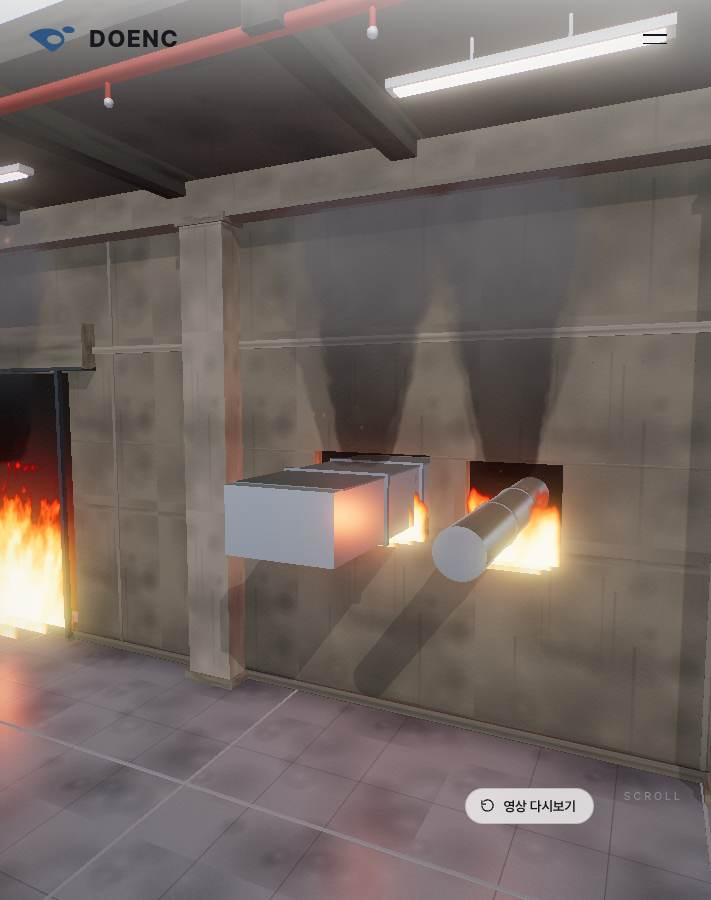
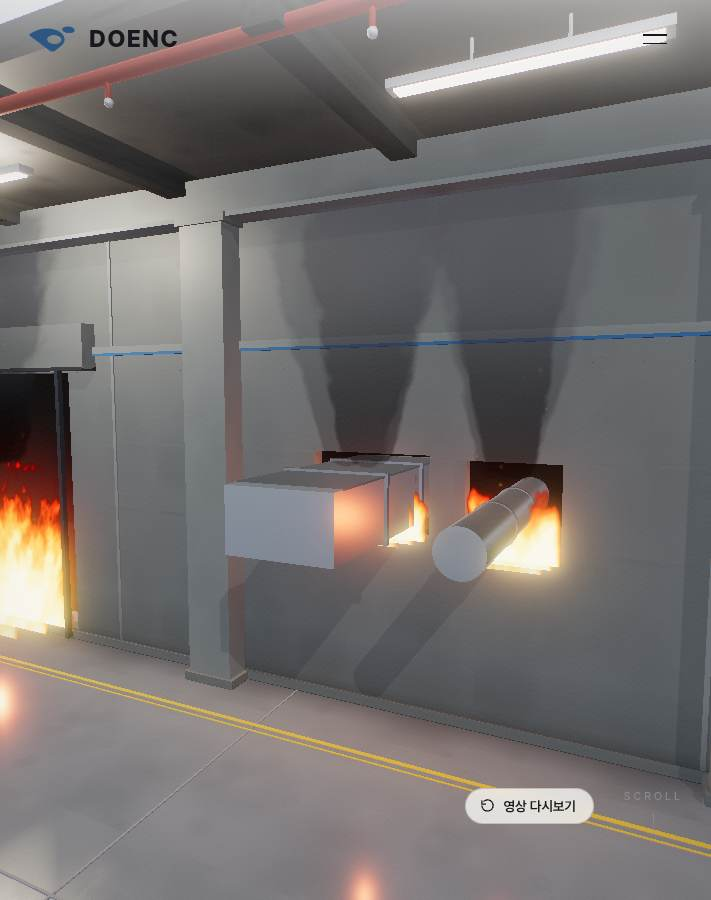
그래픽 2단계 — 폐건물처럼 보이던 원인 제거, 도장 마감된 완공 시설로
'폐건물 같다'의 원인은 렌더링이 아니라 **표면과 빛**이었다.

① 벽에 세로 물자국 7줄과 큰 얼룩 34개가 실제로 그려져 있었다.
   흘러내린 자국은 방치된 건물의 신호다. 아무리 렌더링을 올려도 이게 있으면
   버려진 곳으로 읽힌다. 벽을 도장 마감으로 바꾸고 결은 롤러 자국 수준만 남겼다.
   색도 갈회색(때 낀 콘크리트) → 중성 회색(관리되는 시설)으로 옮겼다.
   ⚠ 명도는 크게 못 올린다 — 하얀 내화보드가 벽에 묻히면 주역이 사라진다.

② 천장 등기구가 '빛나는 것처럼 칠해진 판'일 뿐 방을 전혀 밝히지 않았다.
   실내인데 흐린 날 야외처럼 빛이 평평하게 깔려 공간이 죽어 있었다.
   실제 광원을 달아 바닥·벽에 빛웅덩이를 만든다. 그림자는 끄고(키라이트가 담당)
   저사양에서는 개수를 절반으로 — 광원 수는 픽셀 셰이더 비용에 그대로 붙는다.

③ 바닥을 에폭시 코팅으로. 구워 넣던 굵은 타일 격자를 빼고 거칠기를 낮춰
   구운 환경맵이 비치게 했다. 신축줄눈 간격은 넓혀 격자무늬로 안 보이게.

④ 색면을 둘 넣었다 — 황색 바닥 안전선과 얇은 브랜드 파랑 유도 라인.
   회색 일변도의 화면에 도색된 라인이 들어가면 '설계된 공간'으로 읽힌다.

실내 광원이 새로 들어온 만큼 노출(0.82→0.68)과 기존 방향광을 함께 내려
벽이 하얗게 날아가지 않게 다시 맞췄다. 첫 프레임이 바뀌어 포스터 4장도 재생성.

모서리 모따기와 인물 형상은 아직 남아 있다.

diff --git a/company-site/assets/js/hero3d.js b/company-site/assets/js/hero3d.js
@@ -38,7 +38,7 @@ export async function initHero3D(canvas, host) {
   //    여기서 톤매핑을 켜면 불이 버퍼에 담기기 전에 이미 눌려서 아무리 밝혀도 베이지색이 된다.
   renderer.toneMapping = THREE.NoToneMapping;
   renderer.outputColorSpace = THREE.LinearSRGBColorSpace;
-  const EXPOSURE = 0.82;   // 노출 — 벽이 날아가면 하얀 내화보드도 크림색 셔터 원단도 안 보인다
+  const EXPOSURE = 0.68;   // 노출 — 벽이 날아가면 하얀 내화보드도 크림색 셔터 원단도 안 보인다
 
   // 저사양 판별 — 블룸 해상도와 MSAA 를 여기서 한 번에 낮춘다(재생이 20fps 밑으로 떨어지면 문구가 먼저 튀어나온다)
   const LOWEND = (navigator.hardwareConcurrency || 4) <= 4 ||
@@ -341,11 +341,20 @@ export async function initHero3D(canvas, host) {
     tex.normalTwin = nrm;
     return tex;
   }
-  // ⚠ 얼룩·흘러내린 자국을 세게 주면 '폐건물'이 된다. 관리되는 시설이어야 하므로
-  //    결은 남기되 대비를 눌러서, 가까이서만 보이고 멀리서는 고운 회색으로 읽히게 한다.
-  const texConcrete = makeSurfaceTex(512, { base: "#c6c3bd", roughBase: "#8d8d8d", dark: "rgba(64,62,58,.12)", light: "rgba(232,229,223,.13)", blobs: 34, streaks: 7, grain: 13 });
-  const texFloor    = makeSurfaceTex(512, { base: "#cdced2", roughBase: "#9c9c9c", dark: "rgba(60,62,68,.13)", light: "rgba(238,240,244,.17)", blobs: 28, grain: 12, grid: 3, gridColor: "rgba(74,76,82,.42)" });
-  const texCeil     = makeSurfaceTex(256, { base: "#afaba6", roughBase: "#b4b4b4", dark: "rgba(28,26,24,.22)", light: "rgba(150,146,140,.14)", blobs: 20, grain: 12 });
+  // ⚠⚠ 여기가 '폐건물로 보인다'의 진짜 원인이었다.
+  //   세로로 흘러내린 물자국(streaks)과 큰 얼룩(blobs)은 **방치된 건물의 신호**다.
+  //   아무리 렌더링을 올려도 이게 있으면 버려진 곳으로 읽힌다.
+  //   → 벽은 도장 마감으로 바꾼다. 결은 롤러 자국 수준으로만 남기고 얼룩·물자국은 없앤다.
+  //   색도 갈회색(때 낀 콘크리트) → 중성 회색(관리되는 시설)으로 옮긴다.
+  const texPaint = makeSurfaceTex(512, {
+    base: "#d9d9d7", roughBase: "#7d7d7d",
+    dark: "rgba(150,150,148,.05)", light: "rgba(255,255,255,.06)",   // 대비를 거의 없앤다
+    blobs: 9, grain: 4, normalStrength: 0.55,                        // 롤러 자국 정도의 아주 얕은 굴곡
+  });
+  // 바닥은 에폭시 코팅 — 구워 넣던 굵은 타일 격자를 빼고 매끈하게. 반사는 재질 쪽에서 준다.
+  const texFloor    = makeSurfaceTex(512, { base: "#dbdde0", roughBase: "#6a6a6a", dark: "rgba(96,100,106,.06)", light: "rgba(255,255,255,.08)", blobs: 12, grain: 5, normalStrength: 0.35 });
+  // 천장은 노출 콘크리트로 남긴다 — 벽이 밝아진 만큼 위가 눌려야 공간이 안 뜬다(실제 설비실도 이렇다)
+  const texCeil     = makeSurfaceTex(256, { base: "#afaba6", roughBase: "#b4b4b4", dark: "rgba(28,26,24,.18)", light: "rgba(150,146,140,.12)", blobs: 16, grain: 9 });
 
   // 같은 결 이미지를 쓰되 **면의 월드 좌표에 맞춰** 반복·오프셋을 정한다.
   //  · 크기에 비례한 repeat  → 큰 벽과 작은 조각의 결 크기가 같아진다
@@ -374,16 +383,20 @@ export async function initHero3D(canvas, host) {
 
   // ---- 재질 ----
   // 벽체 = 노출 콘크리트 톤의 건축 마감. 하얀 내화보드가 확실히 대비되도록 중간 명도의 웜그레이
-  const matWall     = new THREE.MeshStandardMaterial({ color: 0x8b8479, roughness: 0.94, envMapIntensity: 0.5, map: texConcrete, roughnessMap: texConcrete.dataTwin, normalMap: texConcrete.normalTwin, normalScale: new THREE.Vector2(0.85, 0.85) });
-  const matWallSide = new THREE.MeshStandardMaterial({ color: 0x7f7971, roughness: 0.96, envMapIntensity: 0.5, map: texConcrete, roughnessMap: texConcrete.dataTwin, normalMap: texConcrete.normalTwin, normalScale: new THREE.Vector2(0.8, 0.8) });
-  const matCol      = new THREE.MeshStandardMaterial({ color: 0xa69f96, roughness: 0.9,  envMapIntensity: 0.5, map: texConcrete, roughnessMap: texConcrete.dataTwin, normalMap: texConcrete.normalTwin, normalScale: new THREE.Vector2(0.9, 0.9) });  // 기둥(빛 받는 면)
-  const matBeam     = new THREE.MeshStandardMaterial({ color: 0x8b857c, roughness: 0.92, envMapIntensity: 0.5, map: texConcrete, roughnessMap: texConcrete.dataTwin, normalMap: texConcrete.normalTwin, normalScale: new THREE.Vector2(0.85, 0.85) }); // 보·인방
-  const matReveal   = new THREE.MeshStandardMaterial({ color: 0x6b6660, roughness: 0.97 }); // 패널 줄눈
+  // 도장 마감 — 무광에 가깝지만 완전 무광은 아니다(0.9 는 종이가 된다). 살짝 남긴 반사가 '칠한 면'을 만든다.
+  // ⚠ 명도는 크게 못 올린다. 하얀 내화보드가 벽에 묻히면 주역이 사라진다 → 중간 회색을 유지하되 색상만 중성으로.
+  const matWall     = new THREE.MeshStandardMaterial({ color: 0x767c80, roughness: 0.82, envMapIntensity: 0.55, map: texPaint, roughnessMap: texPaint.dataTwin, normalMap: texPaint.normalTwin, normalScale: new THREE.Vector2(0.35, 0.35) });
+  const matWallSide = new THREE.MeshStandardMaterial({ color: 0x6e7478, roughness: 0.84, envMapIntensity: 0.55, map: texPaint, roughnessMap: texPaint.dataTwin, normalMap: texPaint.normalTwin, normalScale: new THREE.Vector2(0.35, 0.35) });
+  const matCol      = new THREE.MeshStandardMaterial({ color: 0x838a8e, roughness: 0.8,  envMapIntensity: 0.6,  map: texPaint, roughnessMap: texPaint.dataTwin, normalMap: texPaint.normalTwin, normalScale: new THREE.Vector2(0.35, 0.35) });  // 기둥(빛 받는 면)
+  const matBeam     = new THREE.MeshStandardMaterial({ color: 0x72787c, roughness: 0.82, envMapIntensity: 0.55, map: texPaint, roughnessMap: texPaint.dataTwin, normalMap: texPaint.normalTwin, normalScale: new THREE.Vector2(0.35, 0.35) }); // 보·인방
+  const matReveal   = new THREE.MeshStandardMaterial({ color: 0x71777b, roughness: 0.88 }); // 패널 줄눈
+  const matAccent   = new THREE.MeshStandardMaterial({ color: 0x2e5f8f, roughness: 0.68, envMapIntensity: 0.4 });  // 브랜드 파랑 — 유도 라인
+  const matSafety   = new THREE.MeshStandardMaterial({ color: 0xc9a327, roughness: 0.66, envMapIntensity: 0.35 });  // 바닥 안전선
   // 바닥은 도장 콘크리트 — 살짝 반사가 있어야 실내로 읽힌다(완전 무광이면 종이가 된다)
-  const matFloor    = new THREE.MeshStandardMaterial({ color: 0x9a9ba1, roughness: 0.52, metalness: 0.04, envMapIntensity: 0.55, map: texFloor, roughnessMap: texFloor.dataTwin, normalMap: texFloor.normalTwin, normalScale: new THREE.Vector2(0.5, 0.5) });
-  const matFJoint   = new THREE.MeshStandardMaterial({ color: 0x7f8086, roughness: 0.95 });
-  const matCeil     = new THREE.MeshStandardMaterial({ color: 0x676460, roughness: 1.0, envMapIntensity: 0.4, map: texCeil, roughnessMap: texCeil.dataTwin });  // 완전 검정은 멀리서 화면을 눌러버린다
-  const matCeilBeam = new THREE.MeshStandardMaterial({ color: 0x55524e, roughness: 1.0, map: texCeil });
+  const matFloor    = new THREE.MeshStandardMaterial({ color: 0x9298a0, roughness: 0.3, metalness: 0.05, envMapIntensity: 1.05, map: texFloor, roughnessMap: texFloor.dataTwin, normalMap: texFloor.normalTwin, normalScale: new THREE.Vector2(0.22, 0.22) });
+  const matFJoint   = new THREE.MeshStandardMaterial({ color: 0x7c828a, roughness: 0.6 });
+  const matCeil     = new THREE.MeshStandardMaterial({ color: 0x5e6164, roughness: 1.0, envMapIntensity: 0.35, map: texCeil, roughnessMap: texCeil.dataTwin });  // 완전 검정은 멀리서 화면을 눌러버린다
+  const matCeilBeam = new THREE.MeshStandardMaterial({ color: 0x4d5053, roughness: 1.0, envMapIntensity: 0.3, map: texCeil });
   const matDark     = new THREE.MeshStandardMaterial({ color: 0x161210, roughness: 1.0 });
   // 반짝이는 은빛 스테인리스 배관 / 아연도 사각덕트
   const matPipe = new THREE.MeshStandardMaterial({ color: 0xccd3dc, roughness: 0.16, metalness: 1.0, envMapIntensity: 1.05 });
@@ -730,6 +743,8 @@ export async function initHero3D(canvas, host) {
   // =====================================================================
   //  벽체 — 개구부 세 곳을 남기고 슬래브로 채운 뒤, 기둥·보·줄눈으로 건축을 만든다
   // =====================================================================
+  const lampSpots = [];   // 등기구 x 좌표 — 실제 광원은 조명 절 에서 단다(선언 순서 때문에 분리)
+  const LAMP_LIGHT_Y = 10.9, LAMP_LIGHT_Z = WALL_Z + 5.6;
   (function buildWall() {
     const rects = OPENINGS.map((o) => ({ x0: o.x - o.hw, x1: o.x + o.hw, y0: o.y - o.hh, y1: o.y + o.hh }));
     const TILE = 6;   // 콘크리트 결 한 장이 덮는 크기(m)
@@ -773,15 +788,23 @@ export async function initHero3D(canvas, host) {
       if (jx > BIG.x - BIG.hw - 2.2 && jx < BIG.x + BIG.hw + 2.2) continue; // 셔터 소핏 자리
       box(0.13, colTop - WY0, 0.05, matReveal, jx, (WY0 + colTop) / 2, WALL_FRONT + 0.03, scene, false, false);
     }
+    // 허리 라인 — 도장 구획선. 위는 밝은 회색, 아래는 한 톤 어둡게 칠한 마감을 암시한다.
     box(WX1 - WX0, 0.26, 0.12, matCol, (WX0 + WX1) / 2, 6.6, WALL_FRONT + 0.07, scene, false, false);
-    // 걸레받이
+    // 브랜드 파랑 유도 라인 — 관리되는 시설에는 반드시 도색된 라인이 있다. 색면이 하나 들어가면
+    // 회색 일변도의 화면이 '설계된 공간'으로 읽힌다. 얇게 한 줄만 — 굵으면 촌스러워진다.
+    box(WX1 - WX0, 0.09, 0.13, matAccent, (WX0 + WX1) / 2, 6.44, WALL_FRONT + 0.075, scene, false, false);
+    // 걸레받이 — 도장면 아래를 받는 짙은 띠
     box(WX1 - WX0, 0.34, 0.1, matWallSide, (WX0 + WX1) / 2, WY0 + 0.17, WALL_FRONT + 0.06, scene, false, true);
 
     // ---- 실내 바닥 ---- (줄눈은 결 이미지에 구워져 있고, 굵은 신축줄눈만 실물로 얹는다)
     const FW = WX1 - WX0, FD = 52;
     box(FW, 0.5, FD, scaled(matFloor, FW, FD, 6), (WX0 + WX1) / 2, WY0 - 0.25, WALL_Z + 24, scene, false, true);
-    for (let fx = WX0 + 12; fx < WX1; fx += 12) box(0.09, 0.03, 48, matFJoint, fx, WY0 + 0.012, WALL_Z + 22, scene, false, false);
-    for (let fz = 6; fz < 46; fz += 12)         box(FW, 0.03, 0.09, matFJoint, (WX0 + WX1) / 2, WY0 + 0.012, WALL_Z + fz, scene, false, false);
+    // 신축줄눈만 남긴다 — 간격을 넓혀 격자무늬처럼 안 보이게(촘촘하면 타일 바닥이 된다)
+    for (let fx = WX0 + 16; fx < WX1 - 4; fx += 16) box(0.06, 0.03, 48, matFJoint, fx, WY0 + 0.012, WALL_Z + 22, scene, false, false);
+    for (let fz = 10; fz < 46; fz += 16)            box(FW, 0.03, 0.06, matFJoint, (WX0 + WX1) / 2, WY0 + 0.012, WALL_Z + fz, scene, false, false);
+    // 황색 안전선 — 벽 앞 통행 금지대. 현장 사진에서 '관리되는 시설'을 가장 빨리 알려주는 신호다.
+    box(FW, 0.02, 0.14, matSafety, (WX0 + WX1) / 2, WY0 + 0.02, WALL_FRONT + 2.6, scene, false, false);
+    box(FW, 0.02, 0.06, matSafety, (WX0 + WX1) / 2, WY0 + 0.02, WALL_FRONT + 2.9, scene, false, false);
 
     // ---- 천장 슬래브 + 보 ---- (큰 검은 판은 멀리서 화면을 눌러버린다 → 콘크리트 톤으로)
     box(FW, 0.8, 8.0, scaled(matCeil, FW, 8.0, 6), (WX0 + WX1) / 2, 12.6, WALL_Z + 4.2, scene, false, false);
@@ -831,6 +854,10 @@ export async function initHero3D(canvas, host) {
       });
       box(5.2, 0.18, 0.46, matLampBody, lx, LAMP_Y, LAMP_Z, scene, false, false);
       box(4.9, 0.06, 0.34, matLamp, lx, LAMP_Y - 0.11, LAMP_Z, scene, false, false);  // 아래를 향한 발광면
+      // ⚠ 여태 등기구는 '빛나는 것처럼 칠해진 판'일 뿐 방을 전혀 밝히지 않았다.
+      //    실내인데 흐린 날 야외처럼 빛이 평평하게 깔린 게 폐건물 느낌의 절반이었다.
+      //    실제 광원을 달아 바닥·벽에 빛웅덩이를 만든다. 그림자는 끄고(키라이트가 담당) 수만 최소로.
+      lampSpots.push(lx);
     }
     // 스프링클러 주배관(적색) + 헤드
     const matFP = new THREE.MeshStandardMaterial({ color: 0x9c3b2c, roughness: 0.45, metalness: 0.5, envMapIntensity: 0.9 });
@@ -1100,13 +1127,26 @@ export async function initHero3D(canvas, host) {
   // 앰비언트(hemi)를 낮추고 방향광(key)을 올리면 면마다 명암이 갈려 형태가 또렷해진다.
   // 반대로 hemi 가 세면 전체가 균일하게 떠서 '뿌연' 그림이 된다.
   scene.add(new THREE.HemisphereLight(0xeef1f6, 0x6e6e75, 0.17));
-  const key = new THREE.DirectionalLight(0xfff3e6, 1.62); key.castShadow = true;
+  const key = new THREE.DirectionalLight(0xfff3e6, 1.05); key.castShadow = true;
   key.shadow.mapSize.set(2048, 2048); key.shadow.camera.near = 1; key.shadow.camera.far = 70;
   key.shadow.camera.left = -16; key.shadow.camera.right = 16; key.shadow.camera.top = 13; key.shadow.camera.bottom = -11; key.shadow.bias = -0.0012;
   scene.add(key); scene.add(key.target); // 그림자 카메라가 시선을 따라다니게(넓은 씬에서 해상도 확보)
-  const fill = new THREE.DirectionalLight(0xdfe8ff, 0.2); fill.position.set(-6, 4, 6); scene.add(fill);
+  const fill = new THREE.DirectionalLight(0xdfe8ff, 0.16); fill.position.set(-6, 4, 6); scene.add(fill);
   // 카메라 쪽 스펙큘러 — 은빛 배관·덕트 위로 길게 흐르는 하이라이트를 만든다
-  const spec = new THREE.DirectionalLight(0xffffff, 1.0); spec.position.set(7, 6, 14); scene.add(spec);
+  const spec = new THREE.DirectionalLight(0xffffff, 0.7); spec.position.set(7, 6, 14); scene.add(spec);
+
+  // 천장 등기구가 **실제로 방을 밝히게** 한다.
+  //  · 거리 16m 를 던져야 하므로 세기가 크다(three 는 물리 단위 — 조도는 거리 제곱으로 준다)
+  //  · 그림자는 끈다. 광원마다 그림자맵을 뜨면 저사양에서 바로 무너진다.
+  //  · 저사양에서는 개수를 줄인다 — 광원 수는 픽셀 셰이더 비용에 그대로 붙는다.
+  (function ceilingLights() {
+    const step = LOWEND ? 2 : 1;
+    for (let i = 0; i < lampSpots.length; i += step) {
+      const L = new THREE.PointLight(0xffeed6, LOWEND ? 260 : 145, 46, 2);
+      L.position.set(lampSpots[i], LAMP_LIGHT_Y, LAMP_LIGHT_Z);
+      scene.add(L);
+    }
+  })();
 
   // =====================================================================
   //  환경맵을 **실제 이 방**으로 교체한다.

diff --git a/company-site/index.html b/company-site/index.html
@@ -21,15 +21,15 @@
 
     <link rel="icon" type="image/png" href="assets/images/doenc_mark.png">
     <!-- 히어로 첫 화면 — 화면 비율 단계별로 한 장만 받는다 (경계는 style.css / hero3d.js resize() 와 동일) -->
-    <link rel="preload" as="image" href="assets/images/hero-poster-w.jpg?v=20260803e" media="(min-aspect-ratio: 8/5)" fetchpriority="high">
-    <link rel="preload" as="image" href="assets/images/hero-poster-m.jpg?v=20260803e" media="(min-aspect-ratio: 6/5) and (max-aspect-ratio: 8/5)" fetchpriority="high">
-    <link rel="preload" as="image" href="assets/images/hero-poster-n.jpg?v=20260803e" media="(min-aspect-ratio: 4/5) and (max-aspect-ratio: 6/5)" fetchpriority="high">
-    <link rel="preload" as="image" href="assets/images/hero-poster-p.jpg?v=20260803e" media="(max-aspect-ratio: 4/5)" fetchpriority="high">
+    <link rel="preload" as="image" href="assets/images/hero-poster-w.jpg?v=20260803f" media="(min-aspect-ratio: 8/5)" fetchpriority="high">
+    <link rel="preload" as="image" href="assets/images/hero-poster-m.jpg?v=20260803f" media="(min-aspect-ratio: 6/5) and (max-aspect-ratio: 8/5)" fetchpriority="high">
+    <link rel="preload" as="image" href="assets/images/hero-poster-n.jpg?v=20260803f" media="(min-aspect-ratio: 4/5) and (max-aspect-ratio: 6/5)" fetchpriority="high">
+    <link rel="preload" as="image" href="assets/images/hero-poster-p.jpg?v=20260803f" media="(max-aspect-ratio: 4/5)" fetchpriority="high">
 
     <!-- 3D 모듈을 미리 받아둔다. 없으면 main.js → hero3d.js → three.module → three.core 로
          **네 번 순차 왕복**하느라 750KB 를 다 받을 때까지 포스터가 계속 떠 있는다.
          ⚠ href 는 실제 import 주소와 **글자 그대로 같아야** 캐시가 재사용된다(쿼리 포함). -->
-    <link rel="modulepreload" href="assets/js/hero3d.js?v=20260803e">
+    <link rel="modulepreload" href="assets/js/hero3d.js?v=20260803f">
     <link rel="modulepreload" href="assets/js/vendor/three.module.min.js">
     <link rel="modulepreload" href="assets/js/vendor/three.core.min.js">
 
@@ -76,7 +76,7 @@
     <link rel="stylesheet" href="https://cdn.jsdelivr.net/gh/orioncactus/pretendard@v1.3.9/dist/web/variable/pretendardvariable-dynamic-subset.min.css"
           media="print" onload="this.media='all'">
     <noscript><link rel="stylesheet" href="https://cdn.jsdelivr.net/gh/orioncactus/pretendard@v1.3.9/dist/web/variable/pretendardvariable-dynamic-subset.min.css"></noscript>
-    <link rel="stylesheet" href="assets/css/style.css?v=20260803e">
+    <link rel="stylesheet" href="assets/css/style.css?v=20260803f">
     <noscript><style>.reveal{opacity:1!important;transform:none!important}</style></noscript>
 </head>
 <body id="top">
@@ -178,7 +178,7 @@
         <section class="hero" id="home">
             <!-- ▼ 히어로 미디어 슬롯
                  실사 영상/사진을 받으면 아래 주석 한 줄만 살리면 도면 그래픽이 자동 교체됩니다.
-                 <video autoplay muted loop playsinline poster="assets/images/hero-poster-w.jpg?v=20260803e">
+                 <video autoplay muted loop playsinline poster="assets/images/hero-poster-w.jpg?v=20260803f">
                      <source src="assets/images/hero.mp4" type="video/mp4"></video>
                  또는  <img src="assets/images/hero.jpg" alt="">                        -->
             <div class="hero-media" id="heroMedia" aria-hidden="true">
@@ -917,14 +917,14 @@
         <a class="to-top" href="#top" aria-label="맨 위로">↑</a>
     </footer>
 
-    <script src="assets/js/main.js?v=20260803e"></script>
+    <script src="assets/js/main.js?v=20260803f"></script>
     <script type="module">
       // 히어로 3D는 첫 화면이 그려진 뒤에 불러온다 (본문 표시를 늦추지 않도록)
       var canvas = document.getElementById("hero3d");
       var host = document.getElementById("heroMedia");
       var gl = canvas && canvas.getContext && (canvas.getContext("webgl2") || canvas.getContext("webgl"));
       if (gl) {
-        import("./assets/js/hero3d.js?v=20260803e")
+        import("./assets/js/hero3d.js?v=20260803f")
           .then(function (m) { return m.initHero3D(canvas, host); })
           // 1회 재생이라 replay()로 다시 볼 수 있게 API를 전역에 둔다.
           // ⚠ window.hero3d 는 <canvas id="hero3d"> 와 이름이 겹치므로 heroFilm 을 정식 이름으로 쓴다.

diff --git a/company-site/assets/css/style.css b/company-site/assets/css/style.css
@@ -258,11 +258,11 @@ svg { display: block; width: 100%; height: auto; }
 .hero-media {
     position: absolute; inset: 0; overflow: hidden;
     background: #83786f center center / auto 100% no-repeat;
-    background-image: url("../images/hero-poster-p.jpg?v=20260803e");           /*        a < 0.8 */
+    background-image: url("../images/hero-poster-p.jpg?v=20260803f");           /*        a < 0.8 */
 }
-@media (min-aspect-ratio: 4/5) { .hero-media { background-image: url("../images/hero-poster-n.jpg?v=20260803e"); } }  /* 0.8 <= a < 1.2 */
-@media (min-aspect-ratio: 6/5) { .hero-media { background-image: url("../images/hero-poster-m.jpg?v=20260803e"); } }  /* 1.2 <= a < 1.6 */
-@media (min-aspect-ratio: 8/5) { .hero-media { background-image: url("../images/hero-poster-w.jpg?v=20260803e"); } }  /* 1.6 <= a       */
+@media (min-aspect-ratio: 4/5) { .hero-media { background-image: url("../images/hero-poster-n.jpg?v=20260803f"); } }  /* 0.8 <= a < 1.2 */
+@media (min-aspect-ratio: 6/5) { .hero-media { background-image: url("../images/hero-poster-m.jpg?v=20260803f"); } }  /* 1.2 <= a < 1.6 */
+@media (min-aspect-ratio: 8/5) { .hero-media { background-image: url("../images/hero-poster-w.jpg?v=20260803f"); } }  /* 1.6 <= a       */
 
 /* 사실적 3D 캔버스 — 준비되면 폴백 위로 나타난다.
    포스터가 곧 같은 프레임이므로 길게 겹칠 이유가 없다 — 짧게 넘겨야 갈아타는 게 안 보인다 */

diff --git a/company-site/archive.html b/company-site/archive.html
@@ -37,7 +37,7 @@
     <link rel="stylesheet" href="https://cdn.jsdelivr.net/gh/orioncactus/pretendard@v1.3.9/dist/web/variable/pretendardvariable-dynamic-subset.min.css"
           media="print" onload="this.media='all'">
     <noscript><link rel="stylesheet" href="https://cdn.jsdelivr.net/gh/orioncactus/pretendard@v1.3.9/dist/web/variable/pretendardvariable-dynamic-subset.min.css"></noscript>
-    <link rel="stylesheet" href="assets/css/style.css?v=20260803e">
+    <link rel="stylesheet" href="assets/css/style.css?v=20260803f">
     <noscript><style>.reveal{opacity:1!important;transform:none!important}</style></noscript>
 </head>
 <body id="top">
@@ -198,8 +198,8 @@
         </div>
     </div>
 
-    <script src="assets/js/main.js?v=20260803e"></script>
-    <script src="assets/js/pages.js?v=20260803e"></script>
+    <script src="assets/js/main.js?v=20260803f"></script>
+    <script src="assets/js/pages.js?v=20260803f"></script>
     <script>
       DOENC.initArchive();
     </script>

diff --git a/company-site/support.html b/company-site/support.html
@@ -37,7 +37,7 @@
     <link rel="stylesheet" href="https://cdn.jsdelivr.net/gh/orioncactus/pretendard@v1.3.9/dist/web/variable/pretendardvariable-dynamic-subset.min.css"
           media="print" onload="this.media='all'">
     <noscript><link rel="stylesheet" href="https://cdn.jsdelivr.net/gh/orioncactus/pretendard@v1.3.9/dist/web/variable/pretendardvariable-dynamic-subset.min.css"></noscript>
-    <link rel="stylesheet" href="assets/css/style.css?v=20260803e">
+    <link rel="stylesheet" href="assets/css/style.css?v=20260803f">
     <noscript><style>.reveal{opacity:1!important;transform:none!important}</style></noscript>
 </head>
 <body id="top">
@@ -198,8 +198,8 @@
         </div>
     </div>
 
-    <script src="assets/js/main.js?v=20260803e"></script>
-    <script src="assets/js/pages.js?v=20260803e"></script>
+    <script src="assets/js/main.js?v=20260803f"></script>
+    <script src="assets/js/pages.js?v=20260803f"></script>
     <script>
       DOENC.initSupport();
     </script>

diff --git a/company-site/about.html b/company-site/about.html
@@ -37,7 +37,7 @@
     <link rel="stylesheet" href="https://cdn.jsdelivr.net/gh/orioncactus/pretendard@v1.3.9/dist/web/variable/pretendardvariable-dynamic-subset.min.css"
           media="print" onload="this.media='all'">
     <noscript><link rel="stylesheet" href="https://cdn.jsdelivr.net/gh/orioncactus/pretendard@v1.3.9/dist/web/variable/pretendardvariable-dynamic-subset.min.css"></noscript>
-    <link rel="stylesheet" href="assets/css/style.css?v=20260803e">
+    <link rel="stylesheet" href="assets/css/style.css?v=20260803f">
     <noscript><style>.reveal{opacity:1!important;transform:none!important}</style></noscript>
 </head>
 <body id="top">
@@ -545,7 +545,7 @@
         </div>
     </div>
 
-    <script src="assets/js/main.js?v=20260803e"></script>
-    <script src="assets/js/pages.js?v=20260803e"></script>
+    <script src="assets/js/main.js?v=20260803f"></script>
+    <script src="assets/js/pages.js?v=20260803f"></script>
 </body>
 </html>
